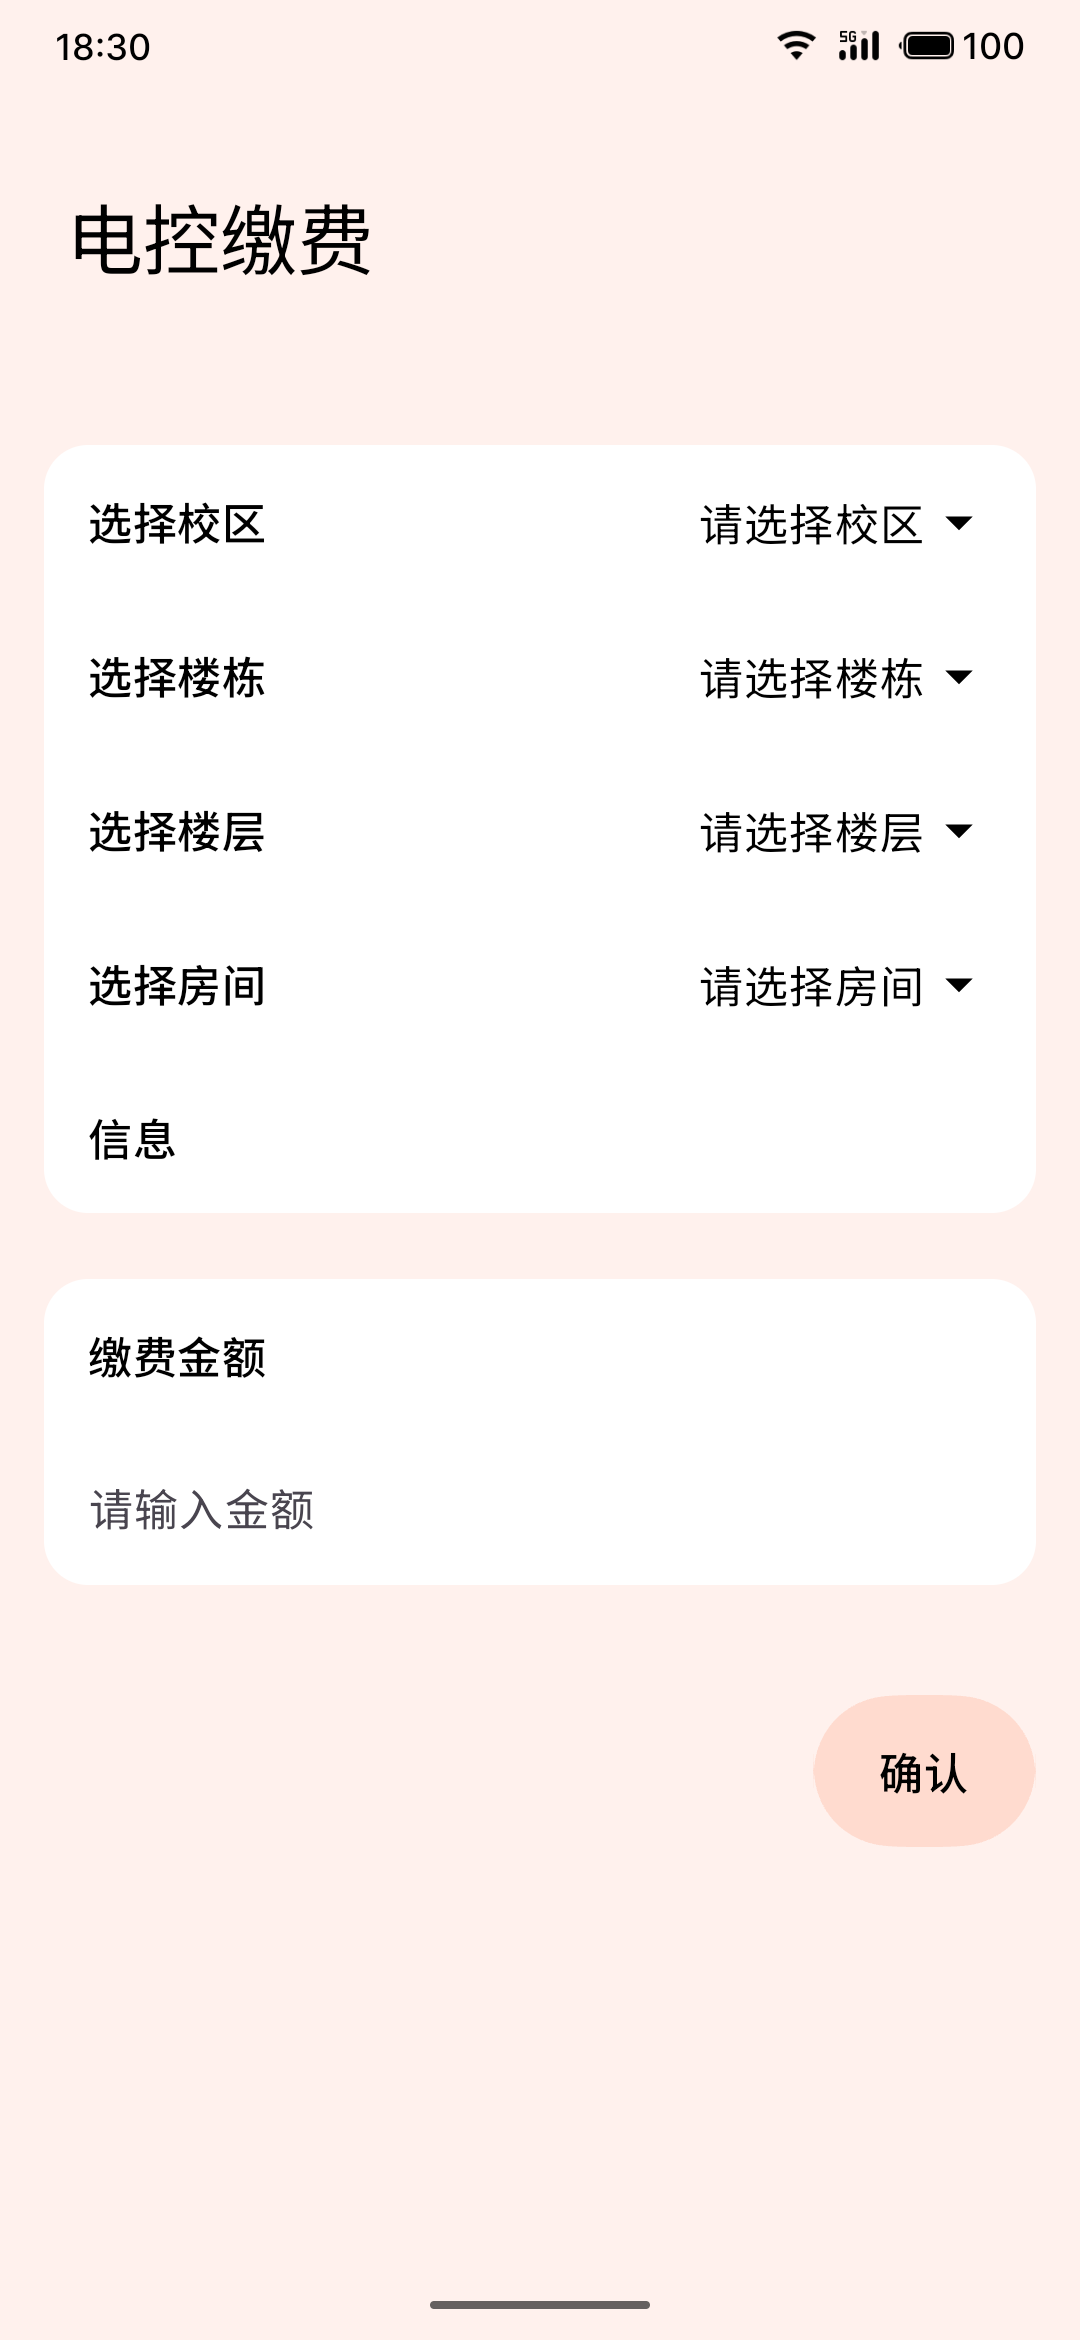
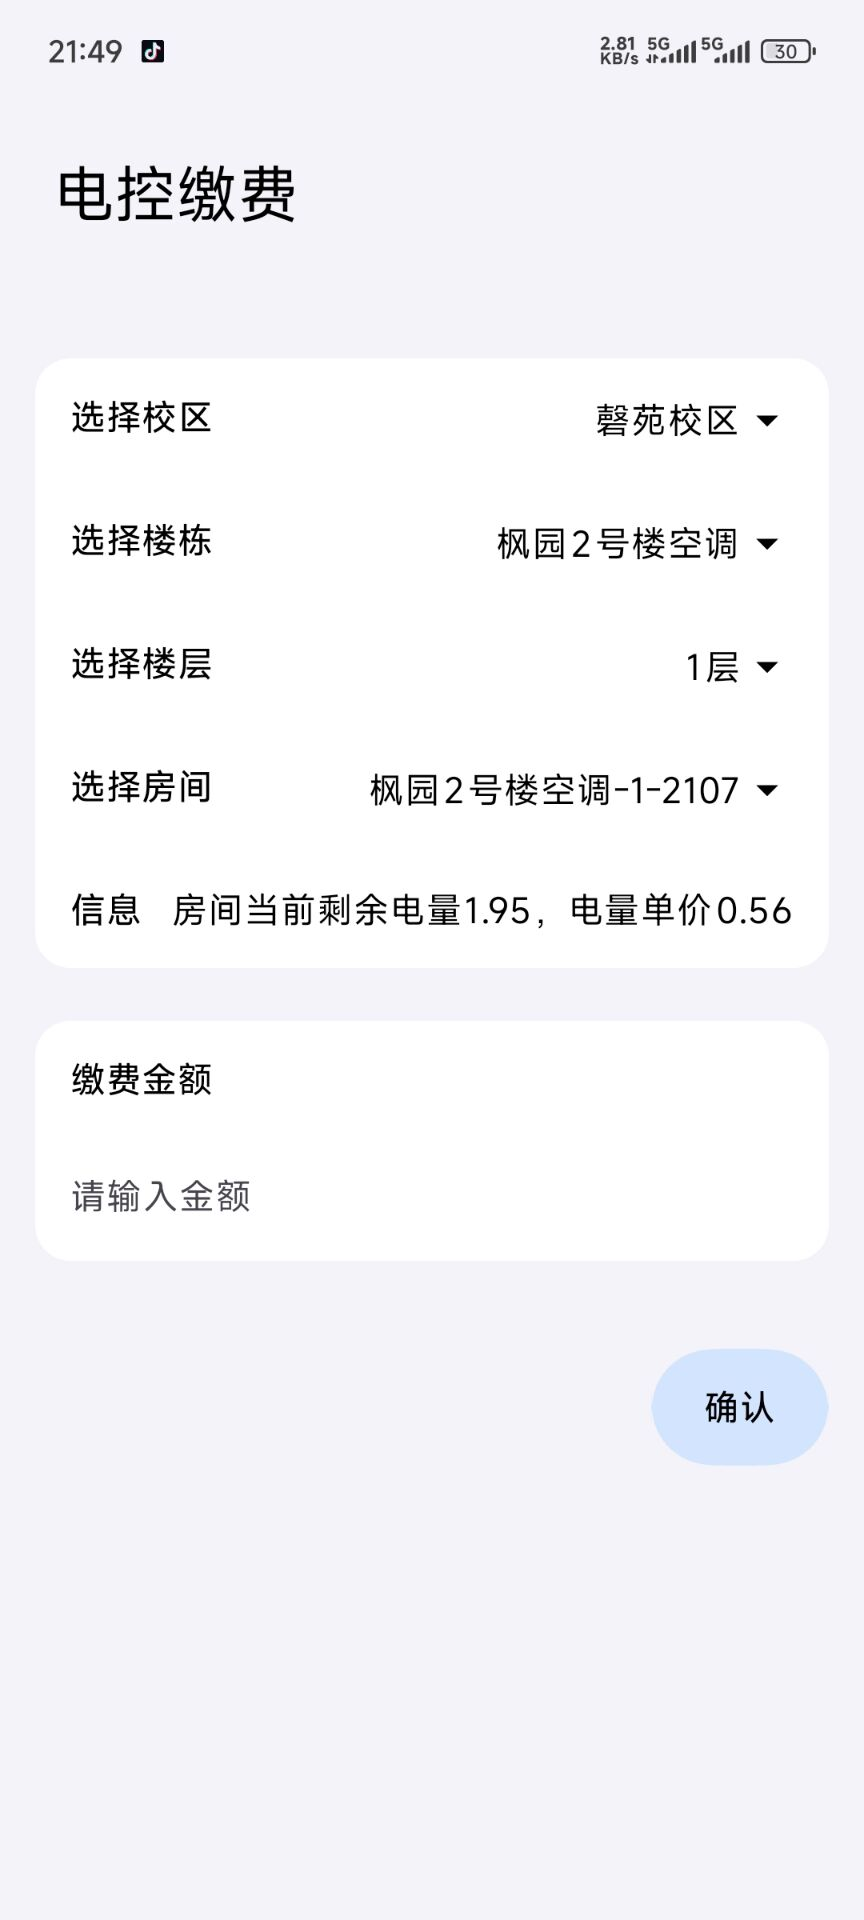
修复混淆导致的充值问题，更新README图片

diff --git a/app/src/main/java/com/ahu/ahutong/ui/state/ElectricityDepositViewModel.kt b/app/src/main/java/com/ahu/ahutong/ui/state/ElectricityDepositViewModel.kt
@@ -160,6 +160,7 @@ class ElectricityDepositViewModel: ViewModel() {
         _selectedCampus.value = null
         val lastSelection = AHUCache.getRoomSelection()
         if (lastSelection != null) {
+            Log.d("ElectricityDepositViewModel", "选择从缓存恢复")
             loadAndRestoreSelection(lastSelection)
         } else {
             fetchCampuses()

diff --git a/README.md b/README.md
@@ -22,6 +22,6 @@
 
 <div>
     <img src="pic/home_page_2025.png" alt="新主页" width="32%">
-    <img src="pic/settings.png" alt="偏好设置" width="32%">
+    <img src="pic/bathroom_charge.png" alt="浴室缴费" width="32%">
     <img src="pic/electricity_charge.png" alt="电控缴费" width="32%">
 </div>
